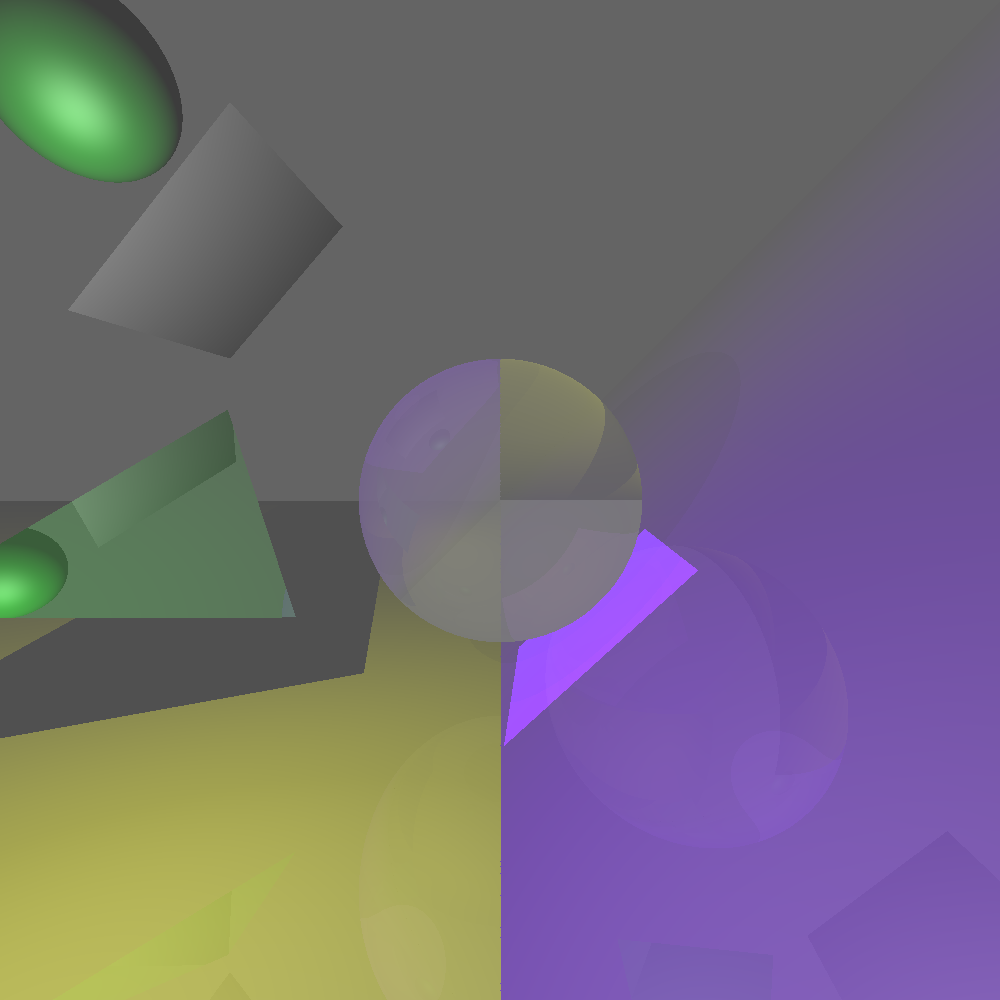
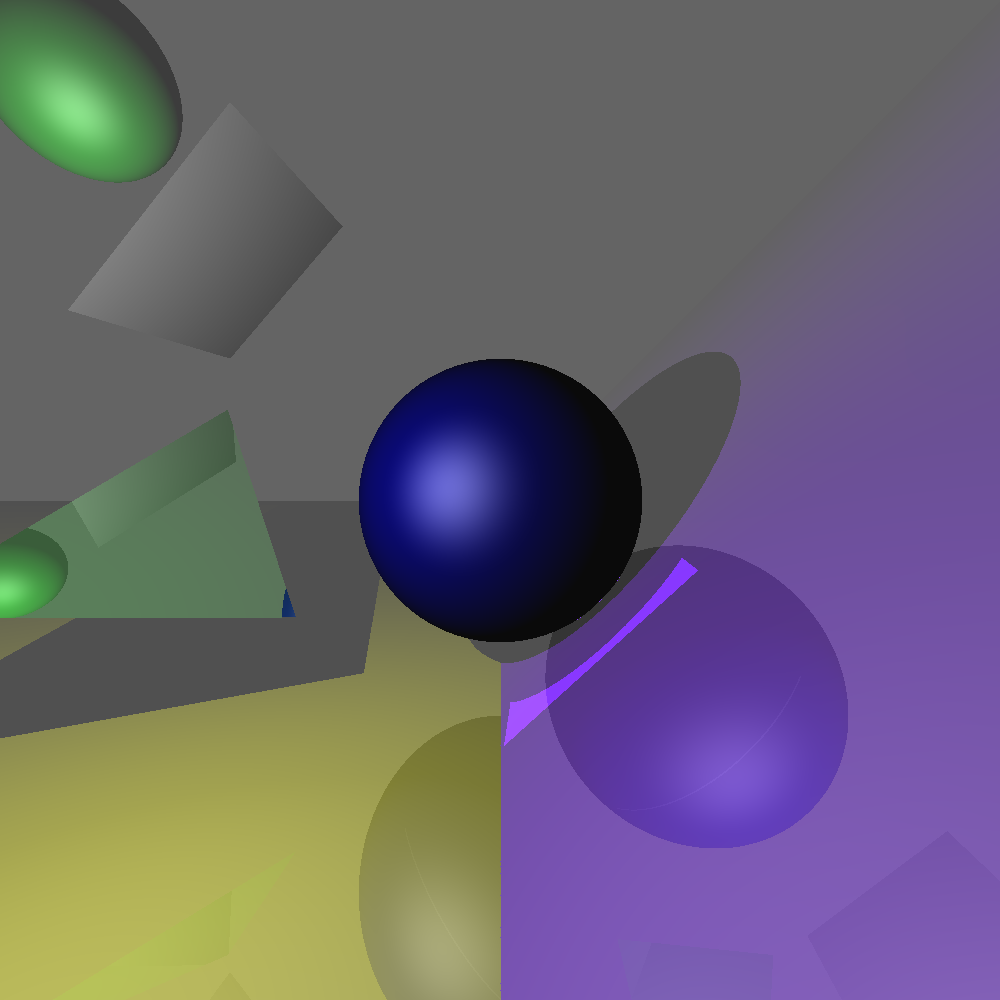
ajustes

Changed region(s): [[0.341, 0.341, 0.868, 1.0], [0.434, 0.93, 0.465, 0.961], [0.279, 0.589, 0.31, 0.62]]

diff --git a/definitions/Intersecoes.cpp b/definitions/Intersecoes.cpp
@@ -484,7 +484,16 @@ void Malha::calcGlobalNormal()
 
 void Malha::transform(float ka, float kd, float ks, float kr, float kt, float eta, float refInd,
 					  vector<vector<float>> t, int type){};
-void Malha::translate(float x, float y, float z){};
+void Malha::translate(float x, float y, float z)
+{
+	for (int i = 1; i < vertices.size(); i++)
+	{
+		vertices[i] += Vec3(x, y, z);
+	}
+
+	calcTriangles();
+};
+
 void Malha::rotate(Vec3 axis, float angle){};
 void Malha::scale(float x, float y, float z){};
 
